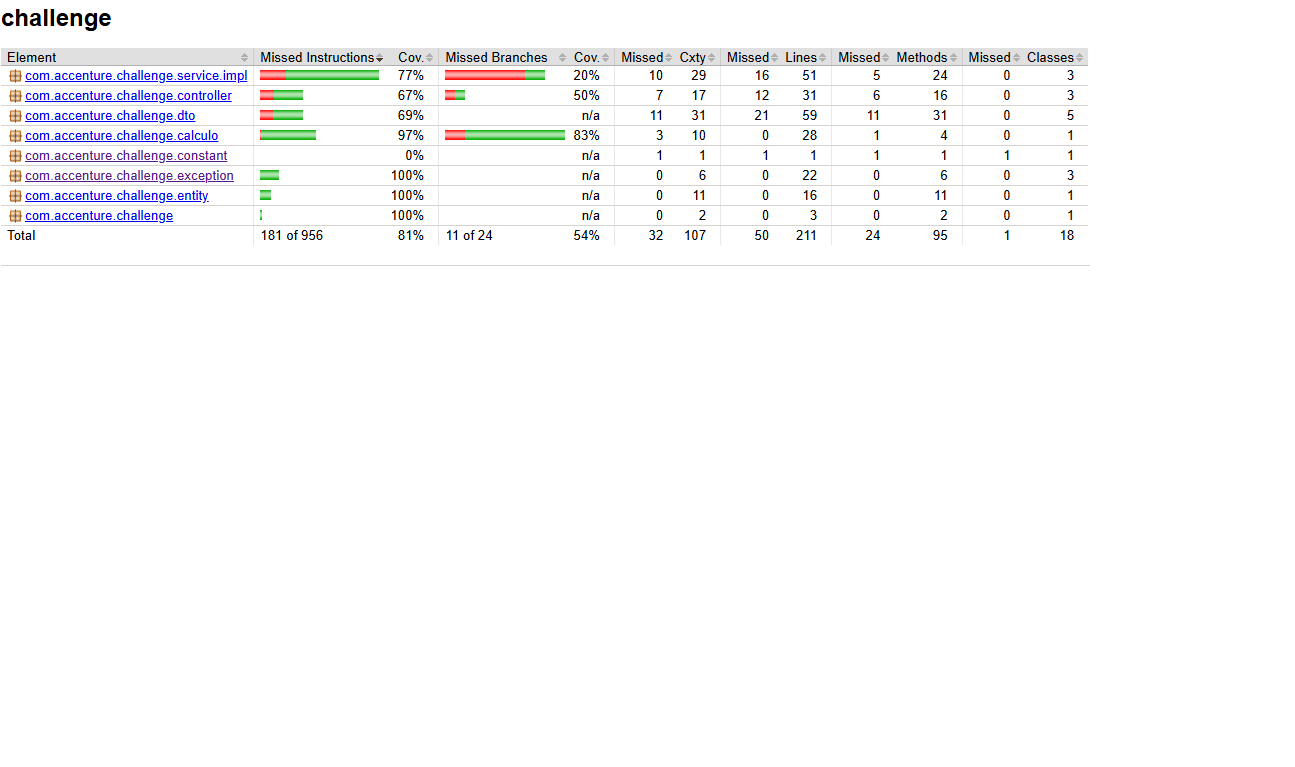
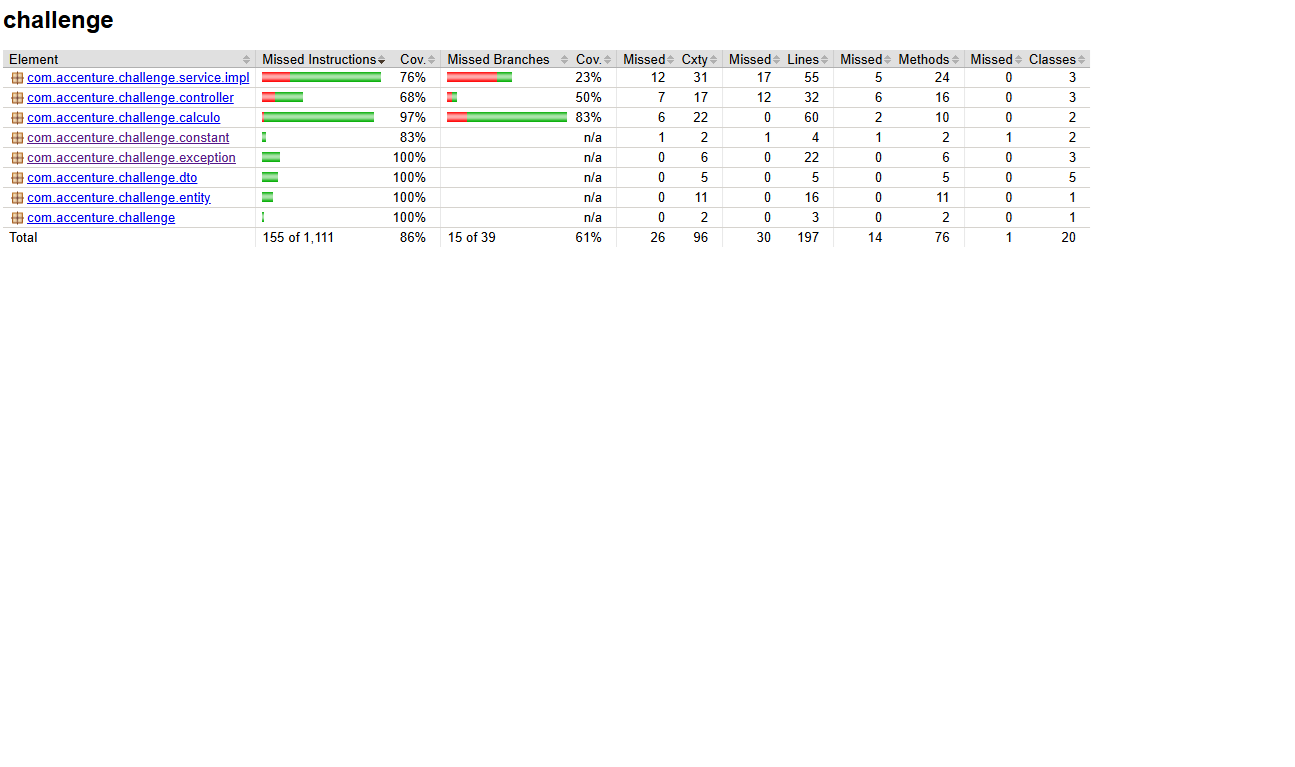
se agrega uso de A star

Changed region(s): [[0.0, 0.0, 0.8649, 0.3299]]

diff --git a/src/main/java/com/accenture/challenge/calculo/AStarStrategy.java b/src/main/java/com/accenture/challenge/calculo/AStarStrategy.java
@@ -1,0 +1,76 @@
+package com.accenture.challenge.calculo;
+
+import java.util.Collections;
+import java.util.Comparator;
+import java.util.HashMap;
+import java.util.HashSet;
+import java.util.LinkedList;
+import java.util.List;
+import java.util.Map;
+import java.util.PriorityQueue;
+import java.util.Set;
+
+import org.springframework.beans.factory.annotation.Qualifier;
+import org.springframework.stereotype.Component;
+
+import com.accenture.challenge.dto.DijkstraResult;
+
+@Component
+@Qualifier("astar")
+public class AStarStrategy implements CalculoMejorCaminoStrategy {
+
+    @Override
+    public DijkstraResult calcularCaminoMinimo(int origen, int destino, Map<Integer, Map<Integer, Integer>> grafo) {
+        Map<Integer, Integer> gScore = new HashMap<>();
+        Map<Integer, Integer> prev = new HashMap<>();
+        Set<Integer> visitados = new HashSet<>();
+
+        PriorityQueue<int[]> openSet = new PriorityQueue<>(Comparator.comparingInt(a -> a[1]));
+
+        gScore.put(origen, 0);
+        openSet.add(new int[]{origen, heuristic(origen, destino)});
+
+        while (!openSet.isEmpty()) {
+            int[] actual = openSet.poll();
+            int nodo = actual[0];
+
+            if (nodo == destino) {
+                return reconstruirCamino(prev, destino, gScore.get(destino));
+            }
+
+            if (visitados.contains(nodo)) continue;
+            visitados.add(nodo);
+
+            for (Map.Entry<Integer, Integer> vecino : vecinos(nodo, grafo).entrySet()) {
+                int v = vecino.getKey();
+                int costo = vecino.getValue();
+                int tentativeG = gScore.get(nodo) + costo;
+
+                if (tentativeG < gScore.getOrDefault(v, Integer.MAX_VALUE)) {
+                    gScore.put(v, tentativeG);
+                    prev.put(v, nodo);
+                    int fScore = tentativeG + heuristic(v, destino);
+                    openSet.add(new int[]{v, fScore});
+                }
+            }
+        }
+
+        return null;
+    }
+
+    private int heuristic(int nodo, int destino) {
+        return 0;
+    }
+
+    private Map<Integer, Integer> vecinos(int id, Map<Integer, Map<Integer, Integer>> grafo) {
+        return grafo.getOrDefault(id, Collections.emptyMap());
+    }
+
+    private DijkstraResult reconstruirCamino(Map<Integer, Integer> prev, int destino, int costoTotal) {
+        List<Integer> camino = new LinkedList<>();
+        for (Integer at = destino; at != null; at = prev.get(at)) {
+            camino.add(0, at);
+        }
+        return new DijkstraResult(costoTotal, camino);
+    }
+}

diff --git a/src/main/java/com/accenture/challenge/service/impl/CostoServiceImpl.java b/src/main/java/com/accenture/challenge/service/impl/CostoServiceImpl.java
@@ -7,9 +7,12 @@ import java.util.Optional;
 import java.util.concurrent.ConcurrentHashMap;
 
 import org.springframework.beans.factory.annotation.Autowired;
+import org.springframework.beans.factory.annotation.Qualifier;
 import org.springframework.stereotype.Service;
 
-import com.accenture.challenge.calculo.CalculoMejorCaminoStrategy;
+import com.accenture.challenge.calculo.AStarStrategy;
+import com.accenture.challenge.calculo.DijkstraStrategy;
+import com.accenture.challenge.constant.MetodoBusquedaEnum;
 import com.accenture.challenge.dto.DijkstraResult;
 import com.accenture.challenge.service.CostoService;
 
@@ -20,11 +23,14 @@ public class CostoServiceImpl implements CostoService {
 
 	private final Map<Integer, Map<Integer, Integer>> cacheCostos = new ConcurrentHashMap<>();
 	
-	private final CalculoMejorCaminoStrategy calculoMejorCaminoStrategy;
+	private final DijkstraStrategy dijkstraStrategy;
+	private final AStarStrategy aStarStrategy;
 	
 	@Autowired
-	public CostoServiceImpl(CalculoMejorCaminoStrategy calculoMejorCaminoStrategy) {
-		this.calculoMejorCaminoStrategy = calculoMejorCaminoStrategy;
+	public CostoServiceImpl(@Qualifier("dijkstra") DijkstraStrategy dijkstraStrategy, 
+			@Qualifier("astar") AStarStrategy aStarStrategy) {
+		this.dijkstraStrategy = dijkstraStrategy;
+		this.aStarStrategy = aStarStrategy;
 	}
 
     @PostConstruct
@@ -49,8 +55,12 @@ public class CostoServiceImpl implements CostoService {
         return cacheCostos.getOrDefault(id, Collections.emptyMap());
     }
 
-    public DijkstraResult buscarMejorCamino(int origen, int destino) {
-    	return calculoMejorCaminoStrategy.calcularCaminoMinimo(origen, destino, cacheCostos);
+    public DijkstraResult buscarMejorCamino(int origen, int destino, MetodoBusquedaEnum metodo) {
+    	DijkstraResult dijkstraResult = switch (metodo) {
+	        case A_STAR -> aStarStrategy.calcularCaminoMinimo(origen, destino, cacheCostos);
+	        case DIJKSTRA -> dijkstraStrategy.calcularCaminoMinimo(origen, destino, cacheCostos);
+    	};
+    	return dijkstraResult;
     }
     
 }

diff --git a/src/test/java/com/accenture/challenge/service/CostoServiceTest.java b/src/test/java/com/accenture/challenge/service/CostoServiceTest.java
@@ -16,7 +16,9 @@ import org.junit.jupiter.api.extension.ExtendWith;
 import org.mockito.Mock;
 import org.mockito.junit.jupiter.MockitoExtension;
 
-import com.accenture.challenge.calculo.CalculoMejorCaminoStrategy;
+import com.accenture.challenge.calculo.AStarStrategy;
+import com.accenture.challenge.calculo.DijkstraStrategy;
+import com.accenture.challenge.constant.MetodoBusquedaEnum;
 import com.accenture.challenge.dto.DijkstraResult;
 import com.accenture.challenge.service.impl.CostoServiceImpl;
 
@@ -24,13 +26,15 @@ import com.accenture.challenge.service.impl.CostoServiceImpl;
 public class CostoServiceTest {
 
 	@Mock
-	private CalculoMejorCaminoStrategy calculoMejorCaminoStrategy;
+	private DijkstraStrategy dijkstraStrategy;
+	@Mock
+	private AStarStrategy aStarStrategy;
 
 	private CostoService service;
 
 	@BeforeEach
 	public void setUp() {
-		service = new CostoServiceImpl(calculoMejorCaminoStrategy);
+		service = new CostoServiceImpl(dijkstraStrategy, aStarStrategy);
 		service.init();
 	}
 
@@ -52,9 +56,9 @@ public class CostoServiceTest {
 	@Test
 	public void testCaminoMinimoSimple() {
 		DijkstraResult resultadoSimulado = new DijkstraResult(10, List.of(1, 2, 4));
-		when(calculoMejorCaminoStrategy.calcularCaminoMinimo(eq(1), eq(4), anyMap())).thenReturn(resultadoSimulado);
+		when(dijkstraStrategy.calcularCaminoMinimo(eq(1), eq(4), anyMap())).thenReturn(resultadoSimulado);
 
-		var result = service.buscarMejorCamino(1, 4);
+		var result = service.buscarMejorCamino(1, 4, MetodoBusquedaEnum.DIJKSTRA);
 		assertNotNull(result);
 		assertEquals(10, result.costoTotal());
 		assertEquals(List.of(1, 2, 4), result.camino());

diff --git a/src/main/java/com/accenture/challenge/controller/CostoController.java b/src/main/java/com/accenture/challenge/controller/CostoController.java
@@ -1,5 +1,7 @@
 package com.accenture.challenge.controller;
 
+import static com.accenture.challenge.constant.Constant.COSTOS;
+
 import java.util.HashMap;
 import java.util.List;
 import java.util.Map;
@@ -15,11 +17,11 @@ import org.springframework.web.bind.annotation.RequestMapping;
 import org.springframework.web.bind.annotation.RequestParam;
 import org.springframework.web.bind.annotation.RestController;
 
+import com.accenture.challenge.constant.MetodoBusquedaEnum;
 import com.accenture.challenge.dto.DijkstraResult;
 import com.accenture.challenge.dto.PuntoVenta;
 import com.accenture.challenge.service.CostoService;
 import com.accenture.challenge.service.PuntoVentaService;
-import static com.accenture.challenge.constant.Constant.COSTOS;
 
 @RestController
 @RequestMapping(COSTOS)
@@ -52,8 +54,8 @@ public class CostoController {
     }
 
     @GetMapping("/camino-minimo")
-    public Map<String, Object> caminoMinimo(@RequestParam int origen, @RequestParam int destino) {
-        DijkstraResult result = costoService.buscarMejorCamino(origen, destino);
+    public Map<String, Object> caminoMinimo(@RequestParam int origen, @RequestParam int destino, @RequestParam MetodoBusquedaEnum metodo) {
+        DijkstraResult result = costoService.buscarMejorCamino(origen, destino, metodo);
         if (result == null) {
             return Map.of("mensaje", "No hay camino entre los puntos seleccionados");
         }

diff --git a/src/test/java/com/accenture/challenge/calculo/AStarStrategyTest.java b/src/test/java/com/accenture/challenge/calculo/AStarStrategyTest.java
@@ -1,0 +1,47 @@
+package com.accenture.challenge.calculo;
+
+import static org.junit.jupiter.api.Assertions.assertEquals;
+import static org.junit.jupiter.api.Assertions.assertNotNull;
+import static org.junit.jupiter.api.Assertions.assertNull;
+
+import java.util.HashMap;
+import java.util.List;
+import java.util.Map;
+
+import org.junit.jupiter.api.Test;
+import org.springframework.beans.factory.annotation.Autowired;
+import org.springframework.boot.test.context.SpringBootTest;
+
+import com.accenture.challenge.dto.DijkstraResult;
+
+@SpringBootTest
+public class AStarStrategyTest {
+
+	@Autowired
+    private AStarStrategy strategy;
+
+    @Test
+    void testCaminoEncontrado() {
+        Map<Integer, Map<Integer, Integer>> grafo = new HashMap<>();
+        grafo.put(1, Map.of(2, 5));
+        grafo.put(2, Map.of(3, 10));
+        grafo.put(3, Map.of());
+
+        DijkstraResult result = strategy.calcularCaminoMinimo(1, 3, grafo);
+
+        assertNotNull(result);
+        assertEquals(15, result.costoTotal());
+        assertEquals(List.of(1, 2, 3), result.camino());
+    }
+
+    @Test
+    void testCaminoNoEncontrado() {
+        Map<Integer, Map<Integer, Integer>> grafo = new HashMap<>();
+        grafo.put(1, Map.of(2, 5));
+        grafo.put(2, Map.of());
+
+        DijkstraResult result = strategy.calcularCaminoMinimo(1, 3, grafo);
+
+        assertNull(result);
+    }
+}

diff --git a/src/test/java/com/accenture/challenge/controller/CostoControllerTest.java b/src/test/java/com/accenture/challenge/controller/CostoControllerTest.java
@@ -14,6 +14,7 @@ import static org.springframework.test.web.servlet.result.MockMvcResultMatchers.
 
 import org.springframework.test.web.servlet.MockMvc;
 
+import com.accenture.challenge.constant.MetodoBusquedaEnum;
 import com.accenture.challenge.dto.DijkstraResult;
 import com.accenture.challenge.dto.PuntoVenta;
 import com.accenture.challenge.service.CostoService;
@@ -43,14 +44,14 @@ public class CostoControllerTest {
 
  @Test
  public void testCaminoMinimo() throws Exception {
-     when(costoService.buscarMejorCamino(1, 4)).thenReturn(
+     when(costoService.buscarMejorCamino(1, 4, MetodoBusquedaEnum.DIJKSTRA)).thenReturn(
          new DijkstraResult(10, List.of(1, 2, 4))
      );
      when(pvService.get(1)).thenReturn(new PuntoVenta(1, "CABA"));
      when(pvService.get(2)).thenReturn(new PuntoVenta(2, "GBA_1"));
      when(pvService.get(4)).thenReturn(new PuntoVenta(4, "Santa Fe"));
 
-     mockMvc.perform(get("/costos/camino-minimo?origen=1&destino=4"))
+     mockMvc.perform(get("/costos/camino-minimo?origen=1&destino=4&metodo=DIJKSTRA"))
              .andExpect(status().isOk())
              .andExpect(jsonPath("$.costo").value(10))
              .andExpect(jsonPath("$.camino[0]").value("CABA"))

diff --git a/src/main/java/com/accenture/challenge/service/CostoService.java b/src/main/java/com/accenture/challenge/service/CostoService.java
@@ -2,6 +2,7 @@ package com.accenture.challenge.service;
 
 import java.util.Map;
 
+import com.accenture.challenge.constant.MetodoBusquedaEnum;
 import com.accenture.challenge.dto.DijkstraResult;
 
 public interface CostoService {
@@ -14,5 +15,5 @@ public interface CostoService {
 
     Map<Integer, Integer> vecinos(int id);
 
-    DijkstraResult buscarMejorCamino(int origen, int destino);
+    DijkstraResult buscarMejorCamino(int origen, int destino, MetodoBusquedaEnum metodo);
 }

diff --git a/src/main/java/com/accenture/challenge/calculo/DijkstraStrategy.java b/src/main/java/com/accenture/challenge/calculo/DijkstraStrategy.java
@@ -10,11 +10,13 @@ import java.util.Map;
 import java.util.PriorityQueue;
 import java.util.Set;
 
+import org.springframework.beans.factory.annotation.Qualifier;
 import org.springframework.stereotype.Component;
 
 import com.accenture.challenge.dto.DijkstraResult;
 
 @Component
+@Qualifier("dijkstra")
 public class DijkstraStrategy implements CalculoMejorCaminoStrategy{
 
 	@Override

diff --git a/src/main/java/com/accenture/challenge/constant/MetodoBusquedaEnum.java b/src/main/java/com/accenture/challenge/constant/MetodoBusquedaEnum.java
@@ -1,0 +1,7 @@
+package com.accenture.challenge.constant;
+
+public enum MetodoBusquedaEnum {
+
+	A_STAR,
+	DIJKSTRA
+}

diff --git a/README.md b/README.md
@@ -3,9 +3,9 @@
 # Microservicio Java con PostgreSQL y SonarQube usando Podman
 
 Este proyecto es un microservicio Java (Spring Boot) que utiliza una base de datos **PostgreSQL** y administra puntos de venta y acreditaciones, todo ejecutado en contenedores usando **Podman**.
-La idea que se puede plantear para la resolucion de como obtener el camino mas corto entra dos puntos de venta. Utilice el patron Strategy implementando dos tipos de resolucion distintos. Uno es con A* y el otro es con Dijkstra.
+La idea que plantee para la resolucion de como obtener el camino mas corto entre dos puntos de venta. Fue utilizar el patron Strategy implementando dos tipos de resolucion distintos. Uno es con A* y el otro es con Dijkstra. Por lo tanto, al momento de utilizar le endpoint "/costos/camino-minimo?origen=1&destino=5&metodo=A_STAR" se le debe indicar que metodo se quiere utilizar usando los siguientes String "A_STAR" y "DIJKSTRA".
 
-Con respecto a la utilizacion de las nueva utilidades de java hasta la version 17. Se han utilizado "var" en los tests y "record" en lso DTO para que el codigo sea mas legible. Tambien en java 17 se mejoro el soporte de uso de memoria y CPU dentro de contenedores que viene bien porque en este caso se utilizan con Podman.
+Con respecto a la utilizacion de las nueva utilidades de java hasta la version 17. Se han utilizado "var" en los tests y "record" en los DTO para que el codigo sea mas legible. Tambien en java 17 se mejoro el soporte de uso de memoria y CPU dentro de contenedores que viene bien porque en este caso se utilizan con Podman.
 
 
 
